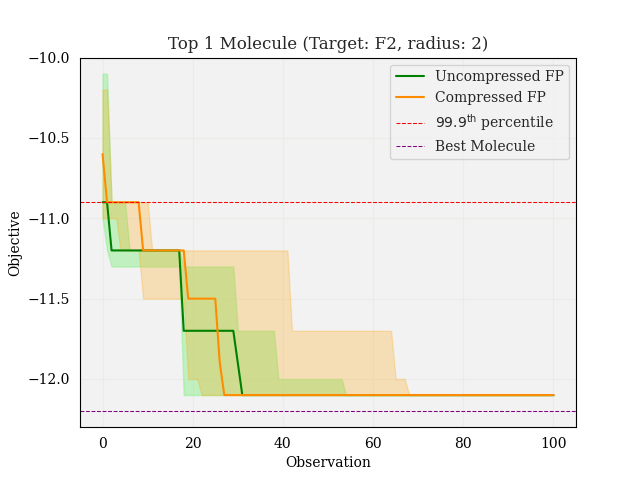
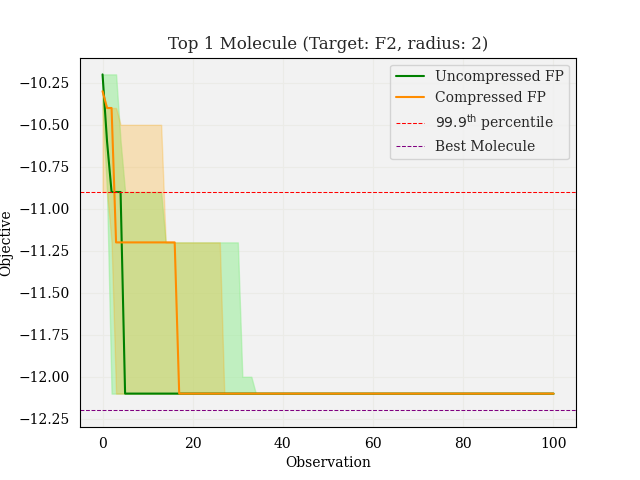
Modify BO experiments, run regression baselines

diff --git a/code/dockstring-regression.py b/code/dockstring-regression.py
@@ -6,8 +6,9 @@ import sklearn.metrics
 from rdkit.Chem import DataStructs
 
 import tanimoto_gp
-from utils.misc import smiles_to_fp, optimize_params
+from utils.misc import smiles_to_fp, optimize_params, init_gp
 from utils import GPCheckpoint
+from utils.get_data import get_dockstring_dataset
 
 from pathlib import Path
 import argparse
@@ -16,81 +17,25 @@ import warnings
 warnings.filterwarnings("ignore")
 
 
+def main(from_checkpoint=False, n_train=10000, target='PARP1', sparse=True, radius=2, count=True):
 
-def config_fp_func(fp_type='ecfp', sparse=False, count=False, fpSize=1024, radius=1):
-
-    fp_func = partial(smiles_to_fp, fp_type=fp_type, sparse=sparse, count=count, fpSize=fpSize, radius=radius)
-
-    return fp_func
-
-
-
-def init_gp(smiles_train, y_train, config_fp=False):
-
-    if config_fp:
-        fp_func = config_fp_func()
-        gp = tanimoto_gp.TanimotoGP(fp_func, smiles_train, y_train)
-    else:
-        gp = tanimoto_gp.TanimotoGP(smiles_to_fp, smiles_train, y_train)
-
-    gp_params = tanimoto_gp.TanimotoGP_Params(raw_amplitude=jnp.asarray(1.0), raw_noise=jnp.asarray(1e-2))
-    gp_params = optimize_params(gp, gp_params, tol=1e-3, max_iters=10000)
-
-    return gp, gp_params
-
-
-
-def get_dataset(n_train=10000, target='PARP1'):
-    dataset_path = Path('/projects/wavi0116/code/BayesOpt/data/dockstring-dataset.tsv')
-    assert dataset_path.exists()
-
-    dataset_split_path = Path('/projects/wavi0116/code/BayesOpt/data/cluster_split.tsv')
-    assert dataset_split_path.exists()
-
-    df = pd.read_csv(dataset_path, sep="\t")
-
-    splits = (
-        pd.read_csv(dataset_split_path, sep="\t")
-        .loc[df.index]
-    )
-
-    # Create train and test datasets
-    df_train = df[splits["split"] == "train"]
-    df_test = df[splits["split"] == "test"]
-
-    df_train_10k = df_train.sample(n=n_train, random_state=42)
-
-    smiles_train = df_train_10k["smiles"].values
-    smiles_test = df_test["smiles"].values
-
-    y_train = np.minimum(df_train_10k[target].values, 5.0)
-    y_test = np.minimum(df_test[target].values, 5.0)
-
-    smiles_train = smiles_train[~np.isnan(y_train)]
-    y_train_nonan = y_train[~np.isnan(y_train)]
-
-    smiles_test = smiles_test[~np.isnan(y_test)]
-    y_test_nonan = y_test[~np.isnan(y_test)]
-
-    return smiles_train, smiles_test, y_train_nonan, y_test_nonan
-
-
-
-def main(from_checkpoint=False, path=None, n_train=10000, target='PARP1', config_fp=False):
-
-    smiles_train, smiles_test, y_train, y_test = get_dataset(n_train=n_train, target=target)
+    # Get Dockstring data
+    smiles_train, smiles_test, y_train, y_test = get_dockstring_dataset(n_train=n_train, target=target)
 
     print(f"Train size: {len(smiles_train)}\nTest size: {len(smiles_test)}")
+    print(f"Experiment Params: n_train: {n_train} | target: {target} | sparse: {sparse} | radius: {radius}")
 
+    Specify model path
+    if sparse:
+        MODEL_PATH = f"models/gp-regression-{target}-10k-sparse-r{radius}.pkl"
+    else:
+        MODEL_PATH = f"models/gp-regression-{target}-10k-compressed-r{radius}.pkl"
 
     if from_checkpoint:
-        gp, gp_params = GPCheckpoint.load_gp_checkpoint(path)
+        gp, gp_params = GPCheckpoint.load_gp_checkpoint(MODEL_PATH)
     else:
-        gp, gp_params = init_gp(smiles_train, y_train, config_fp=config_fp)
-        GPCheckpoint.save_gp_checkpoint(gp, gp_params, f'{path}-{i}')
-    
-    smiles_test = smiles_test
-    y_test = y_test
+        gp, gp_params = init_gp(smiles_train, y_train, sparse=sparse, radius=radius, count=count)
+        GPCheckpoint.save_gp_checkpoint(gp, gp_params, f'{MODEL_PATH}')
     
     mean, _ = gp.predict_y(gp_params, smiles_test, full_covar=False)
 
@@ -104,15 +49,11 @@ if __name__ == "__main__":
 
     parser = argparse.ArgumentParser()
     parser.add_argument("--from_checkpoint", action="store_true")
-    parser.add_argument("--path", type=str, default=None)
     parser.add_argument("--n_train", type=int, default=10000)
     parser.add_argument("--target", type=str, default='PARP1')
-    parser.add_argument("--config_fp", action="store_true")
+    parser.add_argument("--sparse", action="store_true")
+    parser.add_argument("--radius", type=int, default=2)
 
     args = parser.parse_args()
 
-    # If loading checkpoint, model path must be included
-    # if args.path is None:
-    #     parser.error("--path must be specified")
-
-    main(from_checkpoint=args.from_checkpoint, path=args.path, n_train=args.n_train, target=args.target, config_fp=args.config_fp)
+    main(from_checkpoint=args.from_checkpoint, n_train=args.n_train, target=args.target, sparse=args.sparse, radius=args.radius)

diff --git a/code/dockstring-bo.py b/code/dockstring-bo.py
@@ -1,8 +1,12 @@
 import numpy as np
+import jax
+import jax.numpy as jnp
 
+import tanimoto_gp
 from utils import bo, acq_funcs
 from utils.get_data import get_dockstring_dataset
-from utils.misc import init_gp
+from utils.misc import init_gp, config_fp_func
+from utils import GPCheckpoint
 
 import matplotlib.pyplot as plt
 import seaborn as sns
@@ -35,11 +39,17 @@ def get_data(target="PARP1", n_init=1000):
 
     y_train, y_test = -y_train, -y_test
 
-    sampled_indices = np.random.choice(np.arange(n), size=n_init)
-    complement_indices = np.setdiff1d(np.arange(n), sampled_indices)
+    # Sample n_init molecules from bottom 80% of dataset
+    cutoff = np.percentile(y_train, 80)
+    bottom_80_indices = np.where(y_train <= cutoff)[0]
+    sampled_indices = np.random.choice(bottom_80_indices, size=1000, replace=False)
+    top_20_indices = np.where(y_train > cutoff)[0]
+    bottom_80_complement = np.setdiff1d(bottom_80_indices, sampled_indices)
+    full_complement = np.concatenate([bottom_80_complement, top_20_indices])
 
     X_init, y_init = smiles_train[sampled_indices], y_train[sampled_indices]
-    X, y = np.concatenate([smiles_train[complement_indices], smiles_test]), np.concatenate([y_train[complement_indices], y_test])
+    X, y = np.concatenate([smiles_train[full_complement], smiles_test]), np.concatenate([y_train[full_complement], y_test])
+
 
     return X, X_init, y, y_init
 
@@ -52,11 +62,24 @@ def main(n_init, budget, target, sparse, radius):
 
     data = {}
 
+    # Load GP params from regression experiment
+    if sparse:
+        MODEL_PATH = f"models/gp-regression-{target}-10k-sparse-r{radius}.pkl"
+    else:
+        MODEL_PATH = f"models/gp-regression-{target}-10k-compressed-r{radius}.pkl"
+    _, gp_params = GPCheckpoint.load_gp_checkpoint(MODEL_PATH)
+
     for i in range(3):
             
+        # Get dataset
         X, X_init, y, y_init = get_data(target, n_init)
-        
-        gp, gp_params = init_gp(X_init, y_init, sparse=sparse, radius=radius)
+
+        # Initialize GP - currently using same GP params as regression model
+        fp_func = config_fp_func(sparse=sparse, radius=radius)
+        gp = tanimoto_gp.TanimotoGP(fp_func, X_init, y_init)
+
+        # Optimize parameters instead
+        # gp, gp_params = init_gp(X_init, y_init, sparse=sparse, radius=radius)
         
         best, top10, _, _, _ = bo.optimization_loop(X, y, X_init, y_init, gp, gp_params, acq_funcs.ei, epsilon=.01, num_iters=budget)
 

diff --git a/code/utils/misc.py b/code/utils/misc.py
@@ -85,9 +85,9 @@ def optimize_params(gp, gp_params, tol=1e-3, max_iters=10000):
 TO DO: 
 Make this configurable with fp_params dict
 """
-def init_gp(smiles_train, y_train, amp=1.0, noise=1e-2, sparse=True, radius=2):
+def init_gp(smiles_train, y_train, amp=1.0, noise=1e-2, sparse=True, radius=2, count=True, fpSize=1024):
 
-    fp_func = config_fp_func(sparse=sparse, radius=radius)
+    fp_func = config_fp_func(sparse=sparse, radius=radius, count=count, fpSize=fpSize)
 
     gp = tanimoto_gp.TanimotoGP(fp_func, smiles_train, y_train)
 
@@ -101,16 +101,16 @@ def init_gp(smiles_train, y_train, amp=1.0, noise=1e-2, sparse=True, radius=2):
 TO DO: 
 Make this configurable with fp_params dict
 """
-def config_fp_func(fp_type='ecfp', sparse=True, count=True, fpSize=1024, radius=2):
+def config_fp_func(fp_type='ecfp', sparse=True, radius=2, count=True, fpSize=1024):
 
-    fp_func = partial(smiles_to_fp, fp_type=fp_type, sparse=sparse, count=count, fpSize=fpSize, radius=radius)
+    fp_func = partial(smiles_to_fp, fp_type=fp_type, sparse=sparse, radius=radius, count=count, fpSize=fpSize)
 
     return fp_func
 
 
 
 @lru_cache(maxsize=100_000)
-def smiles_to_fp(smiles: str, fp_type: str = 'ecfp', sparse=True, count=True, fpSize=2048, radius=2):
+def smiles_to_fp(smiles: str, fp_type: str = 'ecfp', sparse=True, radius=2, count=True, fpSize=2048):
     """
     Convert smiles to sparse count fingerprint of given type
 

diff --git a/code/utils/bo.py b/code/utils/bo.py
@@ -16,12 +16,9 @@ def optimization_loop(X, y, X_observed, y_observed, gp, gp_params, acq_func, eps
 
         idx = acq_func(X, gp, gp_params, epsilon)
 
-        X, y = list(X), list(y)
-
-        X_new = X.pop(idx)
-        y_new = y.pop(idx)
-
-        X, y = np.array(X), np.array(y)
+        X_new = X[idx]
+        y_new = y[idx]
+        X, y = np.delete(X, idx, axis=0), np.delete(y, idx, axis=0)
 
         percentile = stats.percentileofscore(y_init, y_new)
 

diff --git a/code/utils/acq_funcs.py b/code/utils/acq_funcs.py
@@ -28,7 +28,7 @@ def ei(X, gp, gp_params, epsilon=0.01):
     incumbent = np.max(train_mean)
 
     # Compute improvement
-    improvement = mean - incumbent - epsilon
+    improvement = mean - incumbent # - epsilon # currently not using epsilon parameter
 
     # Compute Z-score
     z = improvement / std

diff --git a/code/plot-bo-results.py b/code/plot-bo-results.py
@@ -26,7 +26,7 @@ sns.set_palette('muted')
 n_init=100
 
 
-for target in ["PARP1", "F2"]:
+for target in ["PARP1"]:
 
     smiles_train, smiles_test, y_train, y_test = get_data.get_dockstring_dataset(target=target)
 

diff --git a/experiments.md b/experiments.md
@@ -28,11 +28,11 @@ Dataset is training dataset from Dockstring (10k molecules). Initial observation
 
 **Experiment setup:**
 
-1. Initialize GP on 100 molecules taken from bottom 80% of dataset
-2. Perform BO with budget of 100
+1. Initialize GP on `n_init` molecules taken from bottom 80% of dataset, use GP params from 10k regression exp
+2. Perform BO for `budget` iterations
 3. Measure best molecule, and average of top 10 molecules at each iteration
-4. Perform for `PARP1` and `F2` targets
-5. Repeat for 3 different splits of dataset, plot median, min, and max for best molecule and top 10 at each iteration
+4. Repeat for 3 different splits of dataset, plot median, min, and max for best molecule and top 10 at each iteration
+5. Compare performance with compressed and uncompressed fingerprints
 
 **Results:**
 
@@ -62,18 +62,26 @@ Dataset is training dataset from Dockstring (10k molecules). Initial observation
 
 **Experiment setup:**
 
-Model uses sparse count ECFP with radius 2, baseline uses bit ECFP with size 1024 and radius 1.
+Here we are evaluating GP models on the Dockstring regression benchmark, varying the fingerprint parameters as follows:
+
+* Dense binary `ecfp` fingerprint w/ radius 2
+* Dense count `ecfp` fingerprint w/ radius 2
+* Sparse binary `ecfp` fingerprint w/ radius 2
+* Sparse count `ecfp` fingerprint w/ radius 2
+
+The evaluation pipeline:
 
 1. Download dockstring dataset
-2. Train GP model on subset of 10k molecules, evaluate on entire test set (~38k molecules)
-3. Evaluate R2 score on `PARP1` and `F2` targets
+2. Train GP model on training set of 10k molecules
+3. Evaluate R2 score on ~38k test set
+4. Repeat for `PARP1` and `F2` targets
 
 **Results:**
 
-| Target | Baseline | Sparse FP |
-| ----- | ----- | ----- |
-| PARP1 | .717 | **.866** |
-| F2 | .699 | **.833** | 
+| Target | Dense binary | Dense count | Sparse binary | Sparse count
+| ----- | ----- | ----- | ----- | ----- |
+| PARP1 | .717 | .855 | .787 | **.866** |
+| F2 | .699 |  |  | **.833** | 
 
 
 **Benchmark:**

diff --git a/progress.md b/progress.md
@@ -25,7 +25,9 @@
   - [x] Regression benchmark to see initial performance (PARP1, F2)
   - [x] Dockstring BO experiment (initialize on ~~1000~~ 100 molecules, run BO w/ budget of ~~1000~~ 100)
     - [x] Evaluate radiuses 2 and 4 on targets PARP1 and F2
-    - [ ] Compare each to corresponding compressed fingerprints
+    - [x] Compare each to corresponding compressed fingerprints
+    - [ ] After good results, scale up to 1k / 1k
+    - [ ] Try running on bottom 80% of dataset
 
 #### Other: 
 
